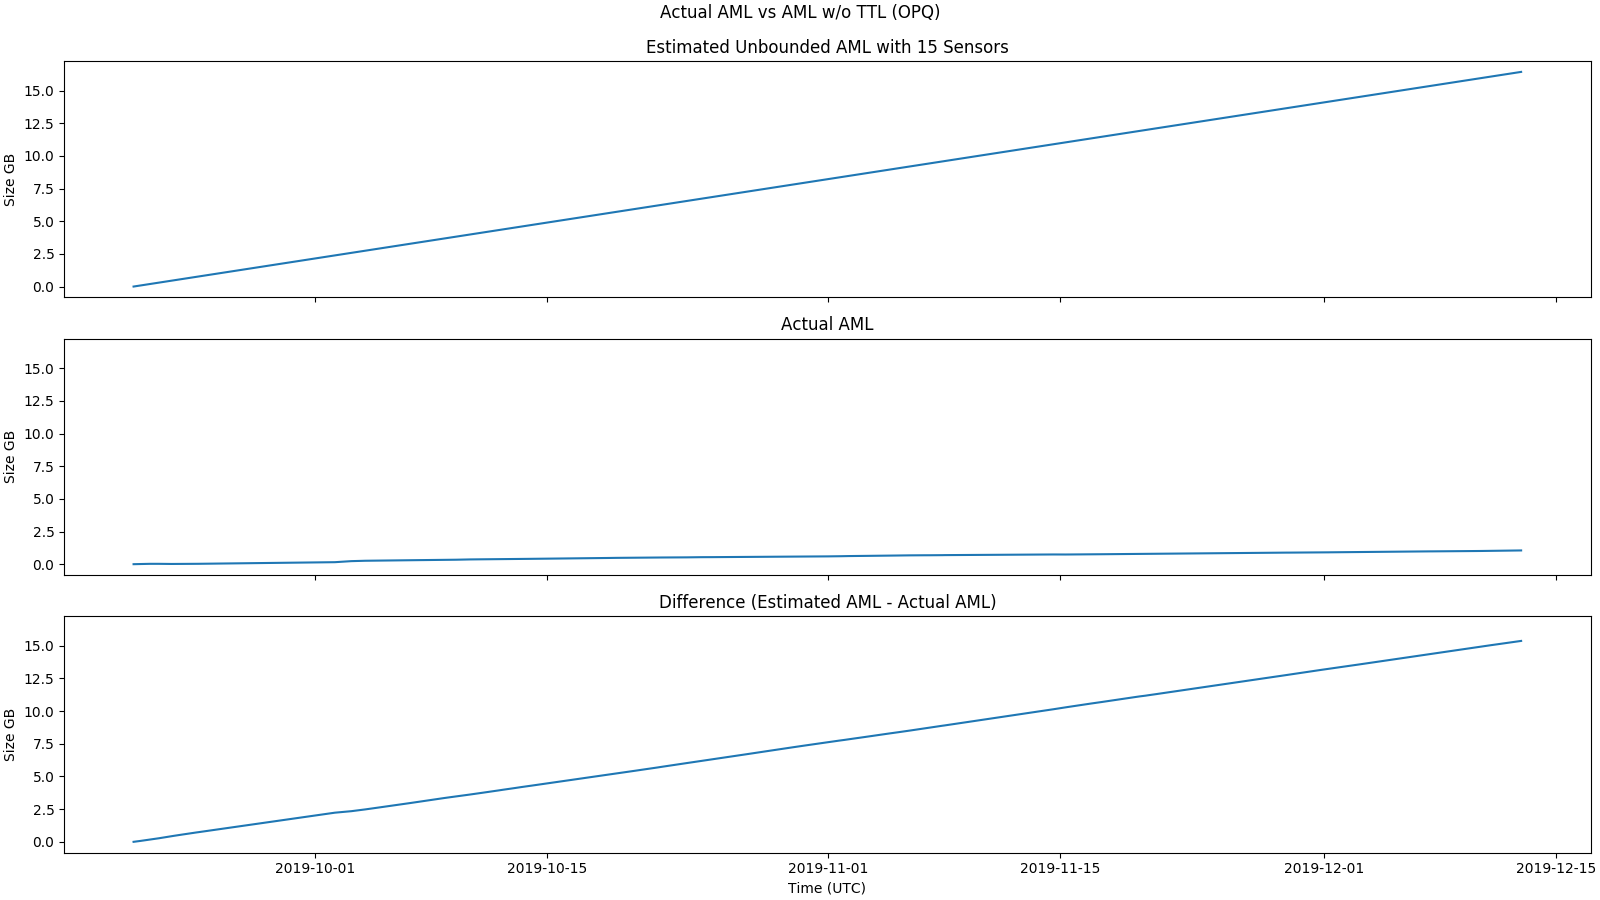
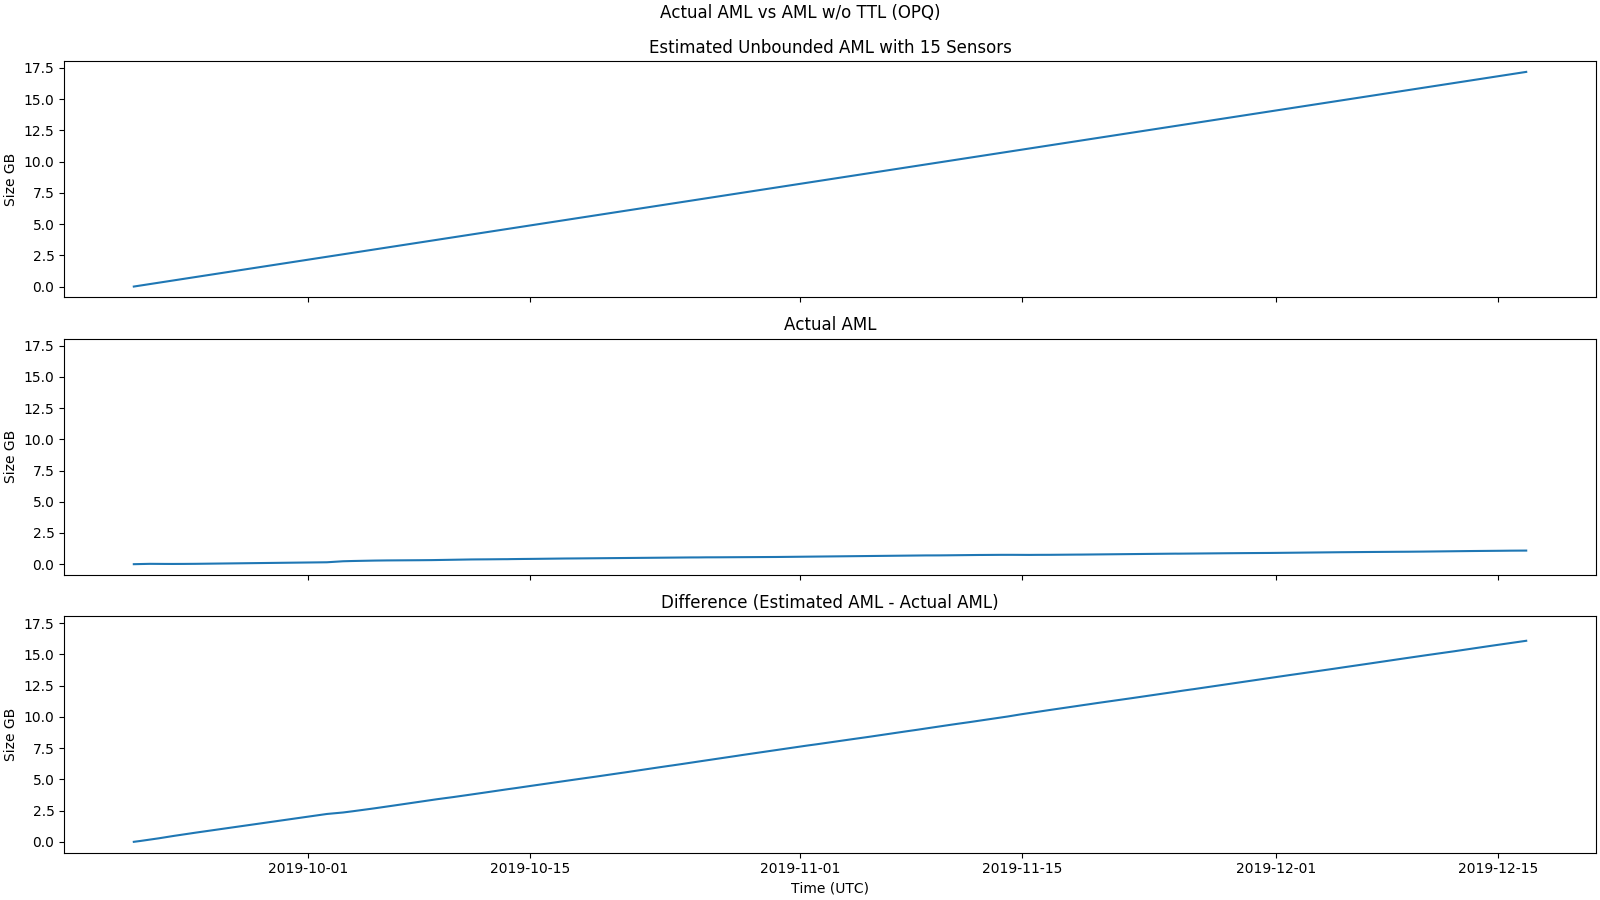
Update plots.

diff --git a/plotting/plots.py b/plotting/plots.py
@@ -261,6 +261,7 @@ def plot_dl_opq_no_err():
     plt.savefig("../src/figures/plot_dl_opq_no_err.png")
     plt.show()
 
+
 def plot_dl_opq_err():
     plt.figure(figsize=(12, 5))
     # x_values = np.arange(S_IN_YEAR, step=S_IN_DAY)
@@ -309,6 +310,7 @@ def plot_dl_opq_err():
     plt.savefig("../src/figures/plot_dl_opq_err.png")
     plt.show()
 
+
 def plot_iml_avg_opq():
     plt.figure(figsize=(12, 5))
     x_values = np.arange(S_IN_YEAR, step=S_IN_DAY)
@@ -338,9 +340,6 @@ def plot_iml_avg_opq():
     plt.show()
 
 
-def plot_dl_lokahi():
-    pass
-
 def plot_iml_average():
     plt.figure(figsize=(12, 5))
     s_samp = 2
@@ -348,21 +347,23 @@ def plot_iml_average():
     mu_n_sen = 15.0
     sigma_n_sen = 0.7
     x_values = np.arange(S_IN_YEAR, step=S_IN_DAY)
-    y_values = s_samp * sr * mu_n_sen * x_values
+    y_values = s_samp * sr * mu_n_sen * x_values / 1_000_000_000.0
     e_values = (sigma_n_sen / np.sqrt(x_values)) * np.abs(s_samp * sr * x_values)
 
-    for i in range(len(x_values)):
-        print(x_values[i], y_values[i], e_values[i])
+    print("iml size one day", y_values[1])
+    print("iml size one week", y_values[7])
+    print("iml size one year", y_values[365])
 
-    plt.errorbar(x_values, y_values, yerr=e_values)
+    plt.plot(x_values, y_values)
 
-    plt.title("AML Estimated Size Growth: SR=12000, Size Sample=2, T=1yr, ")
+    plt.title("IML Estimated Size Growth: SR=12000, Size Sample=2, T=1yr, ")
     plt.xlabel("Time (S)")
-    plt.ylabel("Bytes")
+    plt.ylabel("GB")
 
     plt.legend()
-    plt.savefig("../src/figures/plot_dl_opq_err.png")
+    plt.savefig("../src/figures/plot_iml_opq_avg.png")
     plt.show()
+
 
 def plot_dl_opq_avg():
     plt.figure(figsize=(12, 5))
@@ -371,21 +372,23 @@ def plot_dl_opq_avg():
     sigma_dr = 185544.8
 
     x_values = np.arange(1, S_IN_YEAR, step=S_IN_DAY)
-    y_values = mu_dr * x_values
+    y_values = mu_dr * x_values / 1_000_000.0
     e_values = (sigma_dr / np.sqrt(x_values)) * np.abs(x_values)
 
-    for i in range(len(x_values)):
-        print(x_values[i], y_values[i], e_values[i])
+    print("dl size one day", y_values[1])
+    print("dl size one week", y_values[7])
+    print("dl size one year", y_values[365])
 
-    plt.errorbar(x_values, y_values, yerr=e_values)
+    plt.plot(x_values, y_values)
 
     plt.title("DL (OPQ) $\mu DR$=13064.9 T=1yr")
     plt.xlabel("Time (S)")
-    plt.ylabel("Bytes")
+    plt.ylabel("GB")
 
     plt.legend()
     plt.savefig("../src/figures/plot_dl_opq_avg.png")
     plt.show()
+
 
 def plot_il_opq_avg():
     plt.figure(figsize=(12, 5))
@@ -394,24 +397,27 @@ def plot_il_opq_avg():
     sigma_dr = 6288.48
 
     x_values = np.arange(S_IN_YEAR, step=S_IN_DAY)
-    y_values = mu_dr * x_values
+    y_values = mu_dr * x_values / 1_000_000_000.0
     e_values = (sigma_dr / np.sqrt(x_values)) * np.abs(x_values)
 
-    for i in range(len(x_values)):
-        print(x_values[i], y_values[i], e_values[i])
+    print("il size one day", y_values[1])
+    print("il size one week", y_values[7])
+    print("il size one year", y_values[365])
 
-    plt.errorbar(x_values, y_values, yerr=e_values)
+    plt.plot(x_values, y_values)
 
-    plt.title("IL (OPQ) $\mu IR$=49.1 T=1yr")
+    plt.title("IL (OPQ) $\mu IR$=234.8 T=1yr")
     plt.xlabel("Time (S)")
-    plt.ylabel("Bytes")
+    plt.ylabel("GB")
 
     plt.legend()
     plt.savefig("../src/figures/plot_il_opq_avg.png")
     plt.show()
 
+
 def gb(b: float) -> float:
     return b / 1024.0 / 1024.0 / 1024.0
+
 
 def plot_laha_opq():
     plt.figure(figsize=(12, 5))
@@ -423,47 +429,47 @@ def plot_laha_opq():
     s_samp = 2
     sr = 12000
 
-    iml_size = s_samp * sr * mu_n_sens * x_values
+    iml_size = s_samp * sr * mu_n_sens * x_values / 1_000_000_000.0
     iml_error = (sigma_n_sens / np.sqrt(x_values)) * np.abs(s_samp * sr * x_values)
-    plt.errorbar(x_values, iml_size, yerr=iml_error, label="IML")
+    plt.plot(x_values, iml_size, label="IML")
 
     # AML
     s_meas = 145.0
     r_meas = 1.0 / 1.0
     s_trend = 365.0
     r_trend = 1.0 / 60.0
-    aml_size_meas = s_meas * r_meas * mu_n_sens * x_values
-    aml_size_trend = s_trend * r_trend * mu_n_sens * x_values
+    aml_size_meas = s_meas * r_meas * mu_n_sens * x_values / 1_000_000_000.0
+    aml_size_trend = s_trend * r_trend * mu_n_sens * x_values / 1_000_000_000.0
     aml_size_total = aml_size_meas + aml_size_trend
 
     aml_size_meas_e = (sigma_n_sens / np.sqrt(x_values)) * np.abs(s_meas * r_meas * x_values)
     aml_size_trends_e = (sigma_n_sens / np.sqrt(x_values)) * np.abs(s_trend * r_trend * x_values)
-    aml_size_e = np.sqrt(aml_size_meas_e**2 + aml_size_trends_e**2)
+    aml_size_e = np.sqrt(aml_size_meas_e ** 2 + aml_size_trends_e ** 2)
 
-    plt.errorbar(x_values, aml_size_meas, yerr=aml_size_meas_e, label="AML (Measurements)")
-    plt.errorbar(x_values, aml_size_trend, yerr=aml_size_trends_e, label="AML (Trends)")
-    plt.errorbar(x_values, aml_size_total, yerr=aml_size_e, label="AML")
+    plt.plot(x_values, aml_size_meas, label="AML (Measurements)")
+    plt.plot(x_values, aml_size_trend, label="AML (Trends)")
+    plt.plot(x_values, aml_size_total, label="AML")
 
     # DL
     mu_dr = 40.69
     sigma_dr = 3138.2362879905268
 
-    dl_size = mu_dr * x_values
+    dl_size = mu_dr * x_values / 1_000_000_000.0
     dl_size_e = (sigma_dr / np.sqrt(x_values)) * np.abs(x_values)
-    plt.errorbar(x_values, dl_size, yerr=dl_size_e, label="DL")
+    plt.plot(x_values, dl_size, label="DL")
 
     # IL
     mu_il = 234.83720746762222
     sigma_il = 6288.484706127778
 
-    il_size = mu_il * x_values
+    il_size = mu_il * x_values / 1_000_000_000.0
     il_size_e = (sigma_il / np.sqrt(x_values)) * np.abs(x_values)
-    plt.errorbar(x_values, il_size, yerr=il_size_e, label="IL")
+    plt.plot(x_values, il_size, label="IL")
 
     # Total
     laha_size = iml_size + aml_size_total + dl_size + il_size
-    laha_size_e = np.sqrt(iml_error**2 + aml_size_e**2 + dl_size_e**2 + il_size_e**2)
-    plt.errorbar(x_values, laha_size, yerr=laha_size_e, label="Laha")
+    laha_size_e = np.sqrt(iml_error ** 2 + aml_size_e ** 2 + dl_size_e ** 2 + il_size_e ** 2)
+    plt.plot(x_values, laha_size, label="Laha")
 
     print("iml", gb(iml_size[-1]), gb(iml_error[-1]))
     print("aml meas", gb(aml_size_meas[-1]), gb(aml_size_meas_e[-1]))
@@ -475,7 +481,7 @@ def plot_laha_opq():
 
     plt.title("Laha (OPQ)")
     plt.xlabel("Time (S)")
-    plt.ylabel("Bytes")
+    plt.ylabel("GB")
 
     plt.legend()
     plt.savefig("../src/figures/plot_laha_opq.png")
@@ -495,38 +501,38 @@ def plot_laha_opq_no_iml():
     r_meas = 1.0 / 1.0
     s_trend = 365.0
     r_trend = 1.0 / 60.0
-    aml_size_meas = s_meas * r_meas * mu_n_sens * x_values
-    aml_size_trend = s_trend * r_trend * mu_n_sens * x_values
+    aml_size_meas = s_meas * r_meas * mu_n_sens * x_values / 1_000_000_000.0
+    aml_size_trend = s_trend * r_trend * mu_n_sens * x_values / 1_000_000_000.0
     aml_size_total = aml_size_meas + aml_size_trend
 
     aml_size_meas_e = (sigma_n_sens / np.sqrt(x_values)) * np.abs(s_meas * r_meas * x_values)
     aml_size_trends_e = (sigma_n_sens / np.sqrt(x_values)) * np.abs(s_trend * r_trend * x_values)
-    aml_size_e = np.sqrt(aml_size_meas_e**2 + aml_size_trends_e**2)
+    aml_size_e = np.sqrt(aml_size_meas_e ** 2 + aml_size_trends_e ** 2)
 
-    plt.errorbar(x_values, aml_size_meas, yerr=aml_size_meas_e, label="AML (Measurements)")
-    plt.errorbar(x_values, aml_size_trend, yerr=aml_size_trends_e, label="AML (Trends)")
-    plt.errorbar(x_values, aml_size_total, yerr=aml_size_e, label="AML")
+    plt.plot(x_values, aml_size_meas, label="AML (Measurements)")
+    plt.plot(x_values, aml_size_trend, label="AML (Trends)")
+    plt.plot(x_values, aml_size_total, label="AML")
 
     # DL
     mu_dr = 3138.2362879905268
     sigma_dr = 185544.81743550362
 
-    dl_size = mu_dr * x_values
+    dl_size = mu_dr * x_values/ 1_000_000_000.0
     dl_size_e = (sigma_dr / np.sqrt(x_values)) * np.abs(x_values)
-    plt.errorbar(x_values, dl_size, yerr=dl_size_e, label="DL")
+    plt.plot(x_values, dl_size, label="DL")
 
     # IL
     mu_il = 234.83720746762222
     sigma_il = 6288.484706127778
 
-    il_size = mu_il * x_values
+    il_size = mu_il * x_values/ 1_000_000_000.0
     il_size_e = (sigma_il / np.sqrt(x_values)) * np.abs(x_values)
-    plt.errorbar(x_values, il_size, yerr=il_size_e, label="IL")
+    plt.plot(x_values, il_size, label="IL")
 
     # Total
     laha_size = aml_size_total + dl_size + il_size
-    laha_size_e = np.sqrt(aml_size_e**2 + dl_size_e**2 + il_size_e**2)
-    plt.errorbar(x_values, laha_size, yerr=laha_size_e, label="Laha")
+    laha_size_e = np.sqrt(aml_size_e ** 2 + dl_size_e ** 2 + il_size_e ** 2)
+    plt.plot(x_values, laha_size, label="Laha")
 
     plt.title("Laha (OPQ) Sans IML")
     plt.xlabel("Time (S)")
@@ -535,6 +541,7 @@ def plot_laha_opq_no_iml():
     plt.legend()
     plt.savefig("../src/figures/plot_laha_opq_no_iml.png")
     plt.show()
+
 
 def plot_laha_opq_pie():
     plt.figure(figsize=(12, 5))
@@ -581,6 +588,7 @@ def plot_laha_opq_pie():
     plt.savefig("../src/figures/plot_laha_opq_pie.png")
     plt.show()
 
+
 def plot_laha_lokahi_pie():
     plt.figure(figsize=(12, 5))
     x_values = np.arange(1, S_IN_YEAR * 3, step=S_IN_DAY)
@@ -617,7 +625,7 @@ def plot_laha_lokahi_pie():
 
     plt.subplot(1, 2, 2)
     labels = ["AML (T)", "DL", "IL"]
-    values = [ gb(aml_size_trend[-1]), gb(dl_size[-1]), gb(il_size[-1])]
+    values = [gb(aml_size_trend[-1]), gb(dl_size[-1]), gb(il_size[-1])]
     total = sum(values)
     plt.pie(values, labels=labels, autopct=lambda p: "%.2f gb" % (p * total / 100.0))
 
@@ -676,7 +684,7 @@ def plot_laha_lokahi():
 
     # Total
     laha_size = iml_size + aml_size_total + dl_size + il_size
-    laha_size_e = np.sqrt(iml_error**2 + aml_size_e**2 + dl_size_e**2 + il_size_e**2)
+    laha_size_e = np.sqrt(iml_error ** 2 + aml_size_e ** 2 + dl_size_e ** 2 + il_size_e ** 2)
     plt.errorbar(x_values, laha_size, yerr=laha_size_e, label="Laha")
 
     print("iml", gb(iml_size[-1]), gb(iml_error[-1]))
@@ -689,11 +697,12 @@ def plot_laha_lokahi():
 
     plt.title("Laha (Lokahi)")
     plt.xlabel("Time (S)")
-    plt.ylabel("Bytes")
+    plt.ylabel("GB")
 
     plt.legend()
     plt.savefig("../src/figures/plot_laha_lokahi.png")
     plt.show()
+
 
 if __name__ == "__main__":
     # sample_sizes = [1, 2, 4, 8, 16]

diff --git a/plotting/opq/actual_data.py b/plotting/opq/actual_data.py
@@ -1556,13 +1556,13 @@ if __name__ == "__main__":
 
     laha_stats: List[LahaStat] = load_laha_stats("laha_stats.pickle.db")
 
-    # plot_iml(laha_stats, "/Users/anthony/Development/dissertation/src/figures")
-    # plot_aml(laha_stats, "/Users/anthony/Development/dissertation/src/figures")
-    # plot_dl(laha_stats, "/Users/anthony/Development/dissertation/src/figures")
-    # plot_il(laha_stats, "/Users/anthony/Development/dissertation/src/figures")
-    # plot_laha(laha_stats, "/Users/anthony/Development/dissertation/src/figures")
+    plot_iml(laha_stats, "/Users/anthony/Development/dissertation/src/figures")
+    plot_aml(laha_stats, "/Users/anthony/Development/dissertation/src/figures")
+    plot_dl(laha_stats, "/Users/anthony/Development/dissertation/src/figures")
+    plot_il(laha_stats, "/Users/anthony/Development/dissertation/src/figures")
+    plot_laha(laha_stats, "/Users/anthony/Development/dissertation/src/figures")
 
-    # plot_system_resources(laha_stats, "/Users/anthony/Development/dissertation/src/figures")
+    plot_system_resources(laha_stats, "/Users/anthony/Development/dissertation/src/figures")
     plot_iml_vs_no_tll(laha_stats, "/Users/anthony/Development/dissertation/src/figures")
     plot_aml_vs_no_tll(laha_stats, "/Users/anthony/Development/dissertation/src/figures")
     plot_dl_vs_no_tll(laha_stats, "/Users/anthony/Development/dissertation/src/figures")
@@ -1570,10 +1570,10 @@ if __name__ == "__main__":
     plot_laha_vs_no_tll(laha_stats, "/Users/anthony/Development/dissertation/src/figures")
     plot_laha_vs_no_tll_no_iml(laha_stats, "/Users/anthony/Development/dissertation/src/figures")
 
-    # sim_data = parse_file("sim_data.txt")
-    # plot_iml_vs_sim(laha_stats, sim_data, "/Users/anthony/Development/dissertation/src/figures")
-    # plot_aml_vs_sim(laha_stats, sim_data, "/Users/anthony/Development/dissertation/src/figures")
-    # plot_dl_vs_sim(laha_stats, sim_data, "/Users/anthony/Development/dissertation/src/figures")
-    # plot_il_vs_sim(laha_stats, sim_data, "/Users/anthony/Development/dissertation/src/figures")
-    # plot_laha_vs_sim(laha_stats, sim_data, "/Users/anthony/Development/dissertation/src/figures")
+    sim_data = parse_file("sim_data.txt")
+    plot_iml_vs_sim(laha_stats, sim_data, "/Users/anthony/Development/dissertation/src/figures")
+    plot_aml_vs_sim(laha_stats, sim_data, "/Users/anthony/Development/dissertation/src/figures")
+    plot_dl_vs_sim(laha_stats, sim_data, "/Users/anthony/Development/dissertation/src/figures")
+    plot_il_vs_sim(laha_stats, sim_data, "/Users/anthony/Development/dissertation/src/figures")
+    plot_laha_vs_sim(laha_stats, sim_data, "/Users/anthony/Development/dissertation/src/figures")
 
